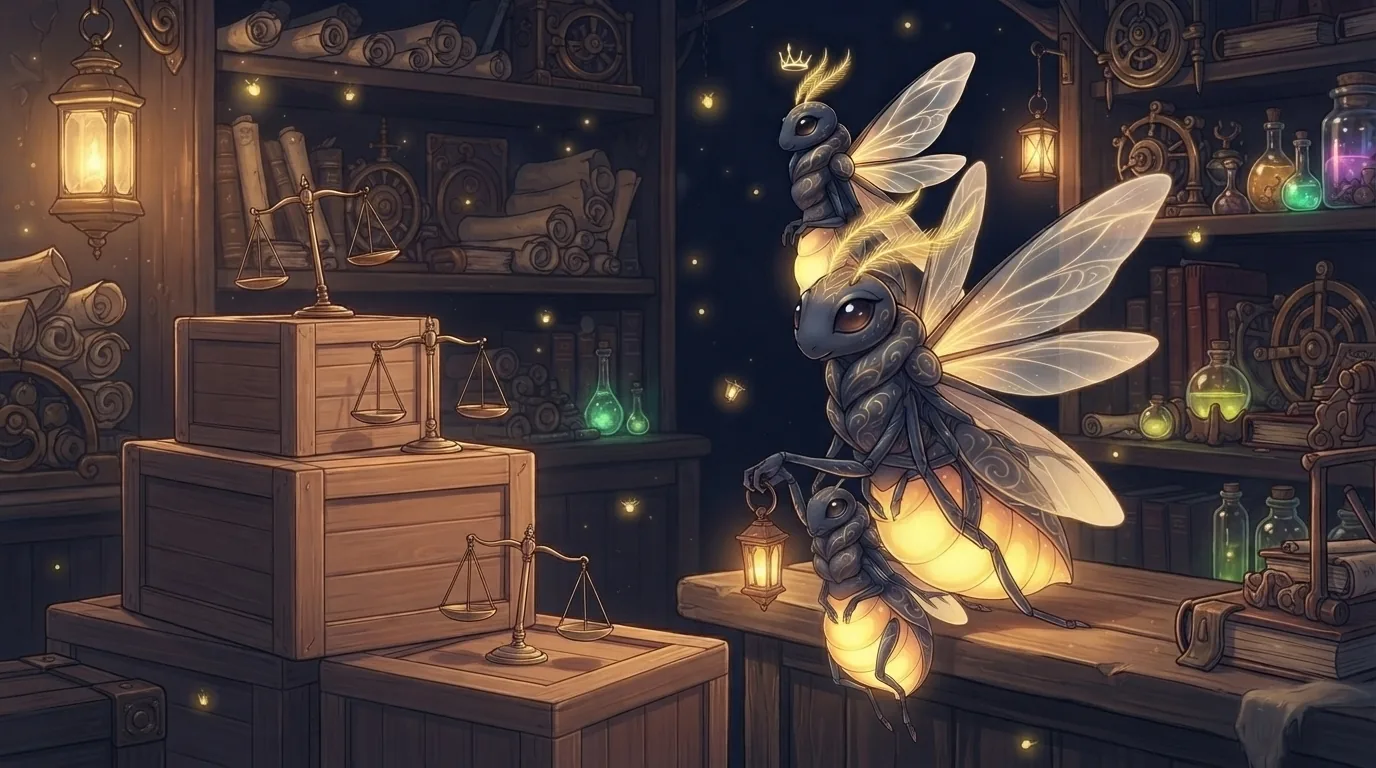
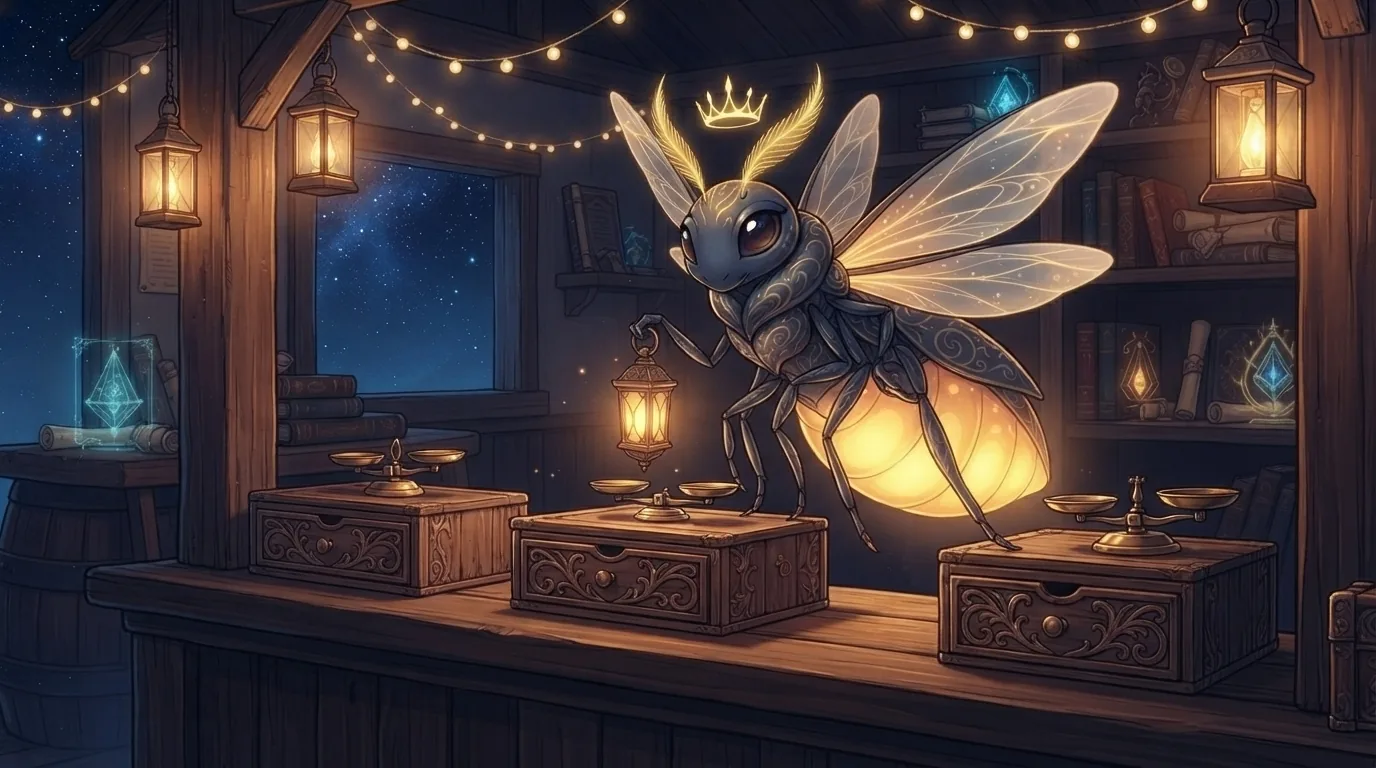
content(js): escenas completas (313 de 313)
S04 y S05 terminadas; S03-N03-P4 y S04-N01-P3 rehechas.
Las escenas con Nima usan su hoja de 8 ángulos.

diff --git a/docs/ESCENAS.md b/docs/ESCENAS.md
@@ -87,7 +87,7 @@ Qué anduvo (C#, con `GEMINI_3_8_FLASH`; el modelo liviano lo achica y le deja m
 | Ensamblador (antes) | 26 de 31 | Faltan `R01-N03-P7` y `R01-N04-P1`, `P3`, `P6` y `P7` (2026-10-19): las que llevan a Axón o a Kira se cortan por tiempo, con su ficha o descritos con palabras; las de Nova sola salen. En `R01-N04-P5` Stitch cambió a Nova (pelo castaño corto) y se corrigió con [escena, ficha de Nova] y «la chica pasa a ser Nova exactamente como en la segunda»; en `P2` y `P4` sobraba un Gheco (pedir «borrá el gecko de…»). Para rehacer si sobra cuota: `R01-N03-P3` y `P4` (la mochila salió con 3 y 4 bolsillos, no 5) y `P6` (Nova repite la pose de `P5` y no saca la moneda). En R01-N03 anduvo pedir con una sola referencia, la escena `R01-N03-P1` (`9010b157…`), y la mochila de `P3` (`eb5697f1…`); con dos referencias se cortaba seguido. Las primeras 17, en el **proyecto de C** (el Gólem duerme debajo de las Forjas). Nova, Axón, el fondo del interior del Gólem, el logo, la moneda (chispa) y los 6 aspectos de Nova se generaron ahí (`REFS['ensamblador']`). Las escenas usan como referencia el fondo + la ficha de Nova + Gheco, o una escena anterior del mismo lugar (la sala del ojo, la pared de cajones); encadenar siempre la misma da poses repetidas: alternar. Los 6 aspectos salieron en una sola hoja 3×2 recortada con PIL. El 2026-10-19 Nova pasó al diseño recatado (capa de cuello alto, ropa opaca; ficha `66dcc917…`): las 17 escenas, la ficha de Axón y los aspectos se rehicieron con `edit_screens` [escena, ficha de Nova] y el pedido «la chica holograma pasa a ser Nova exactamente como en la segunda, misma pose y lugar». Revisar que no aparezca texto en los visores. |
 | PHP | 273 de 273 | **Completo (2026-10-26)**; falta importar en local y `deploy.sh --cursos`. Lecciones del cierre (S03-N03 a S04): con el modelo liviano anduvo pedir «from scratch» con las fichas de Nilo e Iara (`3defe2e1…`, `5d09d4c2…`) cuando la escena anterior como referencia le sacaba a Nilo la gorra y la bufanda o lo vestía de remera; encadenar la misma escena repite la pose (y una vez salieron dos Nilos y dos Gheco). Si Stitch devuelve un enlace de `stitch.googleapis.com` (pide credenciales), bajar con `download_file` y pasarle a `guardar.py` el .txt de la respuesta. Un pedido de corrección a veces vuelve cuadrado (1024×1024): repetirlo pidiendo «same horizontal 16:9 format». Arreglos con PIL: una orca de más en el cielo (`S03-N03-P3`), letreros y pizarrones con letras (`S04-N01-P1`, `S04-N03-P2` «HARBOR» en tiza, `S04-N04-P3`, `S04-N05-P1`, `S04-N05-P2`) y garabatos en un papel (`S04-N03-P1`). Se rehizo `S04-N01-P1` porque el vidrio roto parecía un robo (alumnos chicos). Antes: Micro-misiones de D111 desde el 2026-10-21; el 2026-10-23 se completaron R01 y R02 y R03-N01 a N03; el 2026-10-25/26, R03, R04, R05 y S01-N01 a N04-P2 (ids en `scripts/escenas/ids/php.json`); sigue `S01-N04-P3`. Ojo en R05: la cola de Gheco se le pegaba a Nilo como cola cian (pedir «an ordinary human boy with no tail»); Elefa lejos sale vestida como Nilo (traerla al frente y describir la armadura «head to toe»); el bolso remendado de Nilo trae a veces un parche cian con forma de gecko, que vale (Iara se lo cosió después de la Gorgona). `guardar.py` ya recorta solo las franjas negras que agrega Stitch. Antes: sigue `R03-N05-P1`; antes `R01-N05-P6`. Lo que anduvo: las fichas con «from scratch» o la escena anterior como única referencia; si la anterior tiene un barco o un objeto llamativo, lo arrastra (el barco tortuga). Elefa sale del tamaño de una persona si no se pide «HUGE, almost one meter taller than every person»; volvió la cola cian suelta (corregida con «remove the glowing cyan tail»). Stitch escribió «La Fonda del Puerto» en el cartel porque lo puso en su propio pedido: corregir con «plain bare wood with a small carved drawing». La pipa del capitán de `R01-N03-P7` se sacó (alumnos chicos). Antes: la Clase 0 y R01 completos (2026-10-13), más 18 sueltas de R03–R05 hechas para la temporada del Puerto (2026-10-14, fila de abajo); R02-N01 a R02-N08 (2026-10-18), encadenando cada escena con la anterior del mismo lugar; sigue `R02-N08-P4`. Ojo en R02: Stitch escribió «LEFT/RIGHT» junto a flechas y rotulitos en estantes (tapados con PIL), a veces dibuja un segundo Gheco en un cartel o le da a Elefa dos bastones (pedir «sostiene con LAS DOS MANOS su ÚNICO bastón»); con la referencia de una escena, Iara y Elefa pueden perder su ropa: corregir pasando su ficha como segunda referencia. La Sirena ya está descrita con blusa cerrada en los .md y en PERSONAJES.md. Ojo: a veces sale un segundo Gheco o una cola cian suelta; pedir «UN SOLO Gheco». Para rehacer si sobra cuota: `R01-N08-P4` (las cajas no quedaron una dentro de la otra). Gheco a veces sale más grande que una mano y algún número de objetos no coincide (3 cajones en vez de 4): se dejaron cuando no cambia la escena. Historia, personajes y mapa en el proyecto de PHP (`REFS['php']`, docs/historias/php.md). Ojo: una corrección con `edit_screens` puede redibujar la escena entera (la de Elefa en el mostrador perdió la gorra de Nilo al arreglarle la bufanda): mirar cada versión. |
 | C# | 25 de 25 | Demostración completa (2026-11-04), en el proyecto de la Feria; el 2026-11-05 se rehicieron las 10 con Gheco para que sea el oficial (ver arriba). Con Ceci, usar siempre su ficha `6d9cb358…` como referencia, y pedir «pantalón oscuro, sin falda»: tomando como referencia una escena con ella, salía con falda. |
-| JavaScript | 278 de 313 | En curso (2026-11-06): Clase 0, R01 a R05 y S01 a S03 completas; S04 hasta N02-P1 (falta N01-P4). Para rehacer con cuota: S03-N03-P4 (Lumina sale varias veces) y S04-N01-P3 (Axón se ve entero y con una medialuna en el pecho; debe ser solo el resplandor y la sombra del ojo). **Regla del docente (2026-11-06): cada personaje de una escena va con su hoja de 8 ángulos**, para mantener las proporciones; una escena anterior puede sumarse para el lugar, pero no la reemplaza. `pendientes.py` no reconocía «troll» y «dragón» en minúscula: `R04-N08` y `R05-N07` salieron con otro diseño y se rehicieron con su hoja (ya corregido). Sin hoja en este proyecto queda Fermín (`S02-N04-P3`, la suya está en el de PHP). La polilla de `S01-N04` se hizo con su imagen `02a2e132…`, no con la hoja: coincide y quedó. **Lo que más rindió:** pedidos cortos con 1 a 3 referencias, unas 3 escenas cada 2 minutos; con 5 se corta más. Si dice «ya está generada» sin devolverla, otra referencia y «Dibujá una pantalla nueva, en otra disposición». Las «crucecitas» salen como crucifijos: pedir «botoncito redondo con dos rayitas cruzadas en aspa». Se escapan letras en vidrios y pizarrones del fondo (`S01-N04-P4`, `S01-N03-P4`, tapadas): mirar cada imagen. Si Gheco va en la capucha se mezcla con Nima (`R05-N07-P1`): pedirlo en el hombro. **Desde `R04-N05-P1` Nima va con saco de cuero largo hasta los muslos** (`pendientes.py` y referencia `0f9fcc6d…`): con la chaqueta corta Stitch le dejaba la panza al aire casi siempre y el parche de `tapar.py` se notaba; las escenas anteriores siguen con la corta. Se puede pedir corto si se usa de referencia una escena buena con los mismos personajes (Nima y Saeta `a409a244…`, torre con campana `08fc7b12…`, Nilo y Elefa `b003d98a…`). Sin la referencia de cuerpo entero de Nima `2fca95e3…` (y aun con ella) se le ve piel en la cintura o la espalda: se tapa con `tapar.py … piel 24`. Si la referencia ya tiene a un personaje, puede salir repetido: pedir «exactamente tres figuras». Hilván salía aniñado o moreno: `pendientes.py` lo pide «HOMBRE ADULTO», y si salen dos iguales, pedir «exactamente UN solo Hilván» y decir dónde está parado. Los títeres de bailarina salían como chicas reales: pedirlos chiquitos, de madera con articulaciones y vestido largo. Con una «escena sin personas» conviene describir el esqueleto o la criatura. Revisar siempre cajones y carteles: en `R03-N06-P6` Stitch escribió su pedido negativo en los cajones (se tapó). Se pueden mandar 3 pedidos de Stitch a la vez. Bruno, Tati, Hilván y Gheco salían con otra ropa o color aunque estuviera la referencia: `pendientes.py` ya describe su ropa en cada pedido, y conviene sumar como referencia una escena buena con ellos (Hilván y Nima `938608ee…`, Bruno y Tati `9b10bc57…`). Los telones de fondo y los talleres con engranajes salen con runas o signos: pedir «fondo de tela lisa» y «cuarto de paredes de madera lisa, sin engranajes ni luces de colores». Los farolitos de papel salen con trazos que parecen letras chinas: pedir «lamparitas redondas de vidrio». Detalles aceptados: círculos decorativos en `R03-N02-P3` y triángulos en el telón de `R03-N02-P5`. `pendientes.py` ya arma el pedido de JS con la 2.ª referencia de Nima, «UNA sola vez», Lumina como insecto (salía hada) y el cierre corto «Imagen solo de dibujo, sin escritura» (el pedido negativo largo lo escribía en los papeles). Antes de mandar, cambiar a mano lo que invita a escribir: «cartel», «número», «cuentas», «lista» → dibujitos, rayitas de tiza, puntitos, monedas; las boleterías salen con «TICKET» en el frontón: pedir «el frontón, solo con flores pintadas»; las estrellas pintadas, como chispa; los palitos de a cinco salían como letras chinas (usar puntitos); con gente en fila, pedir aldeanos europeos (chalecos, boinas, faldas largas) o salen kimonos. Si salen dos Gheco, regenerar con «un solo Gheco» (borrarlo deja mancha). Piel de Nima a la vista: `tapar.py ESCENA X0 Y0 X1 Y1 piel 24` la pinta como remera oscura. Los orcos de feria usan la referencia del ogro de la Feria (gris azulado, pelo naranja; sin ella salían como goblins). Stitch sigue escribiendo su propio pedido negativo («ABSOLUTELY NO LETTERS…») en papeles y carteles, y a veces deja a Nima con la panza al aire aun con la 2.ª referencia: se tapan con `python3 scripts/escenas/tapar.py ESCENA X0 Y0 X1 Y1 oscuro|claro UMBRAL` (letras oscuras o piel clara, rellenando con lo de alrededor); las ediciones de Stitch para arreglarlo a veces rehacen la escena entera o la parten en dos viñetas. Proyecto de los **Talleres** (`9229721314509917104`, ahí estaban Nima, Lumina y Gheco); la gente de la Feria y los cruces (Nilo, Iara, Elefa, Pico, Nova, Axón) se dibujaron ahí el 2026-10-30 (ids en `REFS['javascript']`). **Lecciones:** «faroles de papel» vuelve la Feria un festival japonés con letras orientales y máscaras: el ambiente pide «feria de pueblo europea antigua… nada oriental»; pizarras: describir lo que tienen (estrellitas, círculos de tiza), nunca «sin letras» (escribió «NO letters» en la pizarra); estrellas pintadas, «rellenas» o un sol (salió un pentagrama); Gheco con una lupa sale enorme: «cabe en la palma de una mano»; los ogros de feria, verdes, salían como Shrek: ahora tienen referencia propia (gris azulado, pelo naranja); si un cartel sale con letras, se corrige editando esa misma pantalla («borrá las letras y pintá estrellitas»), pero a veces la edición rehace toda la escena (Nima salió de soldado): si pasa, generarla de nuevo desde las referencias, describiendo qué tiene dibujado cada papelito. Con el modelo liviano Nima a veces sale con la panza al aire: por eso lleva de segunda referencia la escena de la calesita (R01-N03-P1); `pendientes.py` pone una sola pantalla por personaje, así que esa se agrega a mano. Una vez escribió el pedido negativo como texto al pie: se recorta la franja. Con 2–3 referencias y el modelo liviano salen casi todas al primer intento. |
+| JavaScript | 313 de 313 | Completo (2026-11-06). En los puestos de tiro, Stitch metía rifles: pedir «puesto de feria de arquería» y «sin armas de fuego» (`S05`). Carteles de fondo con letras: `S05-N02-P2` y `S05-N01-P4`, desenfocados. Nima va siempre con su hoja `57f36ad3…` además de `c1beb5a9…`; sin la hoja sale con chaqueta corta. Pendiente: Fermín (`S02-N04-P3`) sin su hoja hasta subirla a este proyecto. **Regla del docente (2026-11-06): cada personaje de una escena va con su hoja de 8 ángulos**, para mantener las proporciones; una escena anterior puede sumarse para el lugar, pero no la reemplaza. `pendientes.py` no reconocía «troll» y «dragón» en minúscula: `R04-N08` y `R05-N07` salieron con otro diseño y se rehicieron con su hoja (ya corregido). Sin hoja en este proyecto queda Fermín (`S02-N04-P3`, la suya está en el de PHP). La polilla de `S01-N04` se hizo con su imagen `02a2e132…`, no con la hoja: coincide y quedó. **Lo que más rindió:** pedidos cortos con 1 a 3 referencias, unas 3 escenas cada 2 minutos; con 5 se corta más. Si dice «ya está generada» sin devolverla, otra referencia y «Dibujá una pantalla nueva, en otra disposición». Las «crucecitas» salen como crucifijos: pedir «botoncito redondo con dos rayitas cruzadas en aspa». Se escapan letras en vidrios y pizarrones del fondo (`S01-N04-P4`, `S01-N03-P4`, tapadas): mirar cada imagen. Si Gheco va en la capucha se mezcla con Nima (`R05-N07-P1`): pedirlo en el hombro. **Desde `R04-N05-P1` Nima va con saco de cuero largo hasta los muslos** (`pendientes.py` y referencia `0f9fcc6d…`): con la chaqueta corta Stitch le dejaba la panza al aire casi siempre y el parche de `tapar.py` se notaba; las escenas anteriores siguen con la corta. Se puede pedir corto si se usa de referencia una escena buena con los mismos personajes (Nima y Saeta `a409a244…`, torre con campana `08fc7b12…`, Nilo y Elefa `b003d98a…`). Sin la referencia de cuerpo entero de Nima `2fca95e3…` (y aun con ella) se le ve piel en la cintura o la espalda: se tapa con `tapar.py … piel 24`. Si la referencia ya tiene a un personaje, puede salir repetido: pedir «exactamente tres figuras». Hilván salía aniñado o moreno: `pendientes.py` lo pide «HOMBRE ADULTO», y si salen dos iguales, pedir «exactamente UN solo Hilván» y decir dónde está parado. Los títeres de bailarina salían como chicas reales: pedirlos chiquitos, de madera con articulaciones y vestido largo. Con una «escena sin personas» conviene describir el esqueleto o la criatura. Revisar siempre cajones y carteles: en `R03-N06-P6` Stitch escribió su pedido negativo en los cajones (se tapó). Se pueden mandar 3 pedidos de Stitch a la vez. Bruno, Tati, Hilván y Gheco salían con otra ropa o color aunque estuviera la referencia: `pendientes.py` ya describe su ropa en cada pedido, y conviene sumar como referencia una escena buena con ellos (Hilván y Nima `938608ee…`, Bruno y Tati `9b10bc57…`). Los telones de fondo y los talleres con engranajes salen con runas o signos: pedir «fondo de tela lisa» y «cuarto de paredes de madera lisa, sin engranajes ni luces de colores». Los farolitos de papel salen con trazos que parecen letras chinas: pedir «lamparitas redondas de vidrio». Detalles aceptados: círculos decorativos en `R03-N02-P3` y triángulos en el telón de `R03-N02-P5`. `pendientes.py` ya arma el pedido de JS con la 2.ª referencia de Nima, «UNA sola vez», Lumina como insecto (salía hada) y el cierre corto «Imagen solo de dibujo, sin escritura» (el pedido negativo largo lo escribía en los papeles). Antes de mandar, cambiar a mano lo que invita a escribir: «cartel», «número», «cuentas», «lista» → dibujitos, rayitas de tiza, puntitos, monedas; las boleterías salen con «TICKET» en el frontón: pedir «el frontón, solo con flores pintadas»; las estrellas pintadas, como chispa; los palitos de a cinco salían como letras chinas (usar puntitos); con gente en fila, pedir aldeanos europeos (chalecos, boinas, faldas largas) o salen kimonos. Si salen dos Gheco, regenerar con «un solo Gheco» (borrarlo deja mancha). Piel de Nima a la vista: `tapar.py ESCENA X0 Y0 X1 Y1 piel 24` la pinta como remera oscura. Los orcos de feria usan la referencia del ogro de la Feria (gris azulado, pelo naranja; sin ella salían como goblins). Stitch sigue escribiendo su propio pedido negativo («ABSOLUTELY NO LETTERS…») en papeles y carteles, y a veces deja a Nima con la panza al aire aun con la 2.ª referencia: se tapan con `python3 scripts/escenas/tapar.py ESCENA X0 Y0 X1 Y1 oscuro|claro UMBRAL` (letras oscuras o piel clara, rellenando con lo de alrededor); las ediciones de Stitch para arreglarlo a veces rehacen la escena entera o la parten en dos viñetas. Proyecto de los **Talleres** (`9229721314509917104`, ahí estaban Nima, Lumina y Gheco); la gente de la Feria y los cruces (Nilo, Iara, Elefa, Pico, Nova, Axón) se dibujaron ahí el 2026-10-30 (ids en `REFS['javascript']`). **Lecciones:** «faroles de papel» vuelve la Feria un festival japonés con letras orientales y máscaras: el ambiente pide «feria de pueblo europea antigua… nada oriental»; pizarras: describir lo que tienen (estrellitas, círculos de tiza), nunca «sin letras» (escribió «NO letters» en la pizarra); estrellas pintadas, «rellenas» o un sol (salió un pentagrama); Gheco con una lupa sale enorme: «cabe en la palma de una mano»; los ogros de feria, verdes, salían como Shrek: ahora tienen referencia propia (gris azulado, pelo naranja); si un cartel sale con letras, se corrige editando esa misma pantalla («borrá las letras y pintá estrellitas»), pero a veces la edición rehace toda la escena (Nima salió de soldado): si pasa, generarla de nuevo desde las referencias, describiendo qué tiene dibujado cada papelito. Con el modelo liviano Nima a veces sale con la panza al aire: por eso lleva de segunda referencia la escena de la calesita (R01-N03-P1); `pendientes.py` pone una sola pantalla por personaje, así que esa se agrega a mano. Una vez escribió el pedido negativo como texto al pie: se recorta la franja. Con 2–3 referencias y el modelo liviano salen casi todas al primer intento. |
 | Inglés · Forjas (temporada 2) | 24 de 24 | Completo (2026-10-14): una portada por episodio, tronco y ramas, `FORJAS-01` a `FORJAS-12` (Ada niña) y `FORJAS-S01` a `FORJAS-S12` (Ada de 15), en `cursos/ingles/escenas/`; las misiones reusan las de C. Hechas en el **proyecto de C** (`12453694413360128121`): Stitch solo toma referencias del mismo proyecto, así que primero se recrearon las hojas de Ada niña (`4eb59d68037844c09f3cf2aafdd77cd4`) y de Ada de 15 (`a94bdbb01fe44e2eb49eea421419838c`) con Eco y el Borrón desde sus fichas, y después cada portada con la hoja + el personaje de la región. **Cada temporada nueva repite esto en el proyecto de su región.** De a una llamada (dos en paralelo ya se cortan); para pasar una escena de Ada niña a Ada de 15, «como la segunda, pero con Ada de 15 de la primera» con la portada de Primaria como referencia sale a la primera. Ojo: a veces le saca las cejas o el pelo a quien no corresponde, o escribe un título: revisar cada una. |
 | Inglés · Puerto (temporada 3) | 24 de 24 | Completo (2026-10-14): `PUERTO-01` a `PUERTO-12` (Ada niña) y `PUERTO-S01` a `PUERTO-S12` (Ada de 15) en `cursos/ingles/escenas/`, hechas en el **proyecto de PHP** con las hojas de Ada recreadas ahí (niña `fd32dbcd41874f3ebedd1802bb364b76`, de 15 `ec1abd3a409d48b58277a0408b62d043`). Para las de Secundaria anduvo mejor el pedido **corto** «como la segunda, con Ada de 15 y Eco joven de la primera» (los largos se cortan por tiempo). Ojo: la Sirena salió sin mangas en una (corregida: blusa cerrada con mangas y cuello alto), en otra quedaron dos Ecos y en otra un título y palabras en el agua. De paso se hicieron **18 escenas de PHP** (R01-N10-P3/P4, R03-N04, R04-N01, R04-N02-P1, R04-N07, R05-N06-P3, R05-N07, R05-N08-P2) que usan el curso y la temporada; usar la escena anterior como única referencia (con los personajes ya dibujados) es lo que menos se corta. |
 | Inglés · Ciudadela (temporada 4) | 24 de 24 | Completo (2026-10-14): `CIUDADELA-01` a `12` (Ada niña) y `CIUDADELA-S01` a `S12` (Ada de 15) en `cursos/ingles/escenas/`, hechas en el **proyecto de C++** (`14674491267148198305`) con las hojas de Ada recreadas ahí (niña `d78c472031ae4da8b564180cc607e12b`, de 15 `888fedb546b049779bc0758f69293c42`; la primera hoja dibujó al Borrón como un gato: pedir «mancha sin patas, orejas ni cola»). `S08` a `S12` se hicieron cuando volvió la cuota de Stitch; en `S08` quedaron dos Adas y en `S10` la de 15 salió del tamaño de la nena: las dos se corrigieron con un segundo pedido. Ojo: una portada que parte de otra escena arrastra lo de esa escena (la cocina salió inundada por usar la portada del comedor como referencia; se rehízo desde la escena seca de C++).
